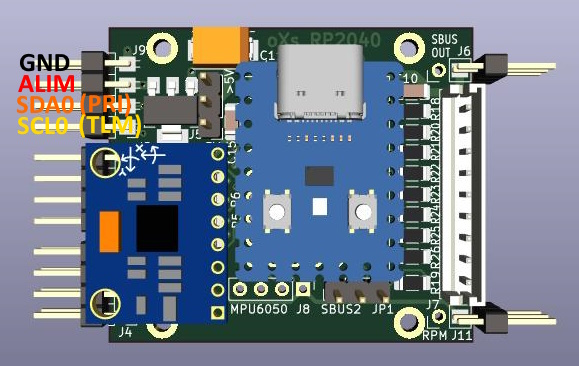
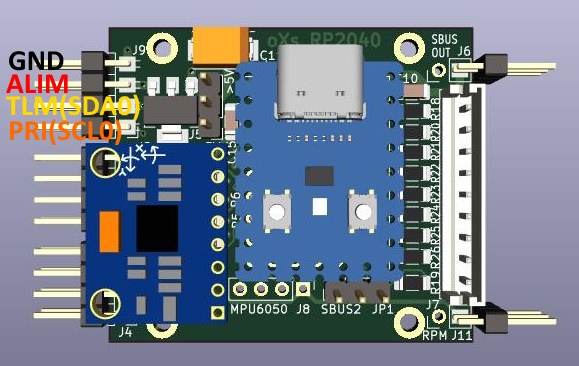
Update I2C picture

Changed region(s): [[0.0, 0.1202, 0.2487, 0.3907]]

diff --git a/README.md b/README.md
@@ -8,9 +8,11 @@
 
 ## --------- Wiring --------------------
 
-RadioLink/Spektrum/Hitec/... receiver, MS5611, GPS and other sensors must share the same Gnd  
-Connect a 5V source to the Vcc pin of RP2040 board ( RP2040-zero or RP2040-TINY boards do not accept more than 5.5V on Vcc pin !! )  
-There is no default affectation of the RP2040 pins so user has to specify it with some parameters after flashing the firmware (see below)  
+RadioLink/Spektrum/Hitec/... receiver, MS5611, GPS and other sensors must share the same Gnd.  
+Connect a 5V source to the Vcc pin of RP2040 board ( RP2040-zero or RP2040-TINY boards do not accept more than 5.5V on Vcc pin !! ).  
+There is no default affectation of the RP2040 pins so user has to specify it with some parameters after flashing the firmware (see below).  
+
+![I2C Wiring](https://github.com/pierrotm777/oXs-RP2040-i2c/blob/main/oXsRP2040Full_I2C.jpg)  
 
 Depending on the protocol, the pins used for PRIMARY/SECONDARY RC Channels and for Telemetry (TLM) varies
 | protocol       | PRI pin is connectected to | SEC pin is connected to | TLM pin is connected to| Comment|
